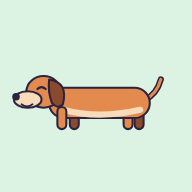
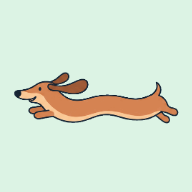
Salchi: el perro es el de Pipí Cucú, copiado tal cual
Se reemplaza el dibujo propio por las mismas imágenes de Pipí Cucú (GIF
volando y PNG quieto, copias byte por byte). Los trucos mueven la imagen
entera y sus nombres dicen lo que se ve; los ids no cambian. Íconos
regenerados con el mismo perro. La prueba de punta a punta verifica que
los archivos sean idénticos.

Claude-Session: https://claude.ai/code/session_01271iNLfZHfGu6YW1ShnF56

Changed region(s): [[0.0625, 0.375, 0.9375, 0.6875]]

diff --git a/finanzas/src/components/Salchicha.tsx b/finanzas/src/components/Salchicha.tsx
@@ -1,57 +1,41 @@
 import type { TrucoId } from '../lib/huellitas/huellitas';
+import { sinMovimiento } from '../lib/movimiento';
 
 /**
- * El salchicha, dibujado por partes para poder animarlo.
+ * El perro. Es EL MISMO de Pipí Cucú, no uno parecido: los dos archivos de
+ * `public/` son copias byte por byte de los de la app hermana
+ * (`../public/pipi-cucu-dog-*`). La idea es que todas las apps tengan el
+ * mismo perrito, así que no se redibuja, no se recolorea y no se recorta. Si
+ * cambia allá, se vuelve a copiar acá.
  *
- * Es un personaje provisional inspirado en el perro de Pipí Cucú
- * (`public/pipi-cucu-dog-static.png` en la app hermana): naranja, panza
- * crema, orejas marrones, ojos cerrados sonrientes. Se reemplaza cambiando
- * este archivo; nada más en la app sabe cómo está dibujado.
+ * El GIF es el perro volando; el PNG, el mismo cuadro quieto, para quien pidió
+ * menos movimiento. Los trucos mueven la imagen entera (saltar, girar,
+ * inclinarse) sin tocar el dibujo.
  *
  * Nunca tiene hambre, ni se enferma, ni se pone triste: no hay un estado que
  * dependa de si la persona entró o no.
  */
+export const PERRO_VOLANDO = '/pipi-cucu-dog-flying.gif';
+export const PERRO_QUIETO = '/pipi-cucu-dog-static.png';
+const ANCHO = 483;
+const ALTO = 177;
+
 export function Salchicha({ truco, tam = 200, etiqueta = 'Salchi, el perro salchicha' }: { truco?: TrucoId | null; tam?: number; etiqueta?: string }) {
+  const quieto = sinMovimiento();
   return (
-    <svg
-      className="salchicha"
-      data-truco={truco ?? undefined}
-      width={tam}
-      height={tam / 2}
-      viewBox="0 0 240 120"
-      role="img"
-      aria-label={etiqueta}
-    >
-      <g className="perro">
-        <g className="cola">
-          <path d="M196 56 Q214 48 220 26" fill="none" stroke="var(--perro-trazo)" strokeWidth="9" strokeLinecap="round" />
-          <path d="M196 56 Q214 48 220 26" fill="none" stroke="var(--perro-cuerpo)" strokeWidth="4.5" strokeLinecap="round" />
-        </g>
-        <g className="patas-tras">
-          <rect x="166" y="66" width="13" height="32" rx="6.5" fill="var(--perro-cuerpo)" stroke="var(--perro-trazo)" strokeWidth="3" />
-          <rect x="182" y="66" width="13" height="32" rx="6.5" fill="var(--perro-oreja)" stroke="var(--perro-trazo)" strokeWidth="3" />
-        </g>
-        <g className="pata-del-2">
-          <rect x="88" y="66" width="13" height="32" rx="6.5" fill="var(--perro-oreja)" stroke="var(--perro-trazo)" strokeWidth="3" />
-        </g>
-        <rect x="58" y="38" width="146" height="44" rx="22" fill="var(--perro-cuerpo)" stroke="var(--perro-trazo)" strokeWidth="3" />
-        <path d="M78 70 Q130 84 190 70" fill="none" stroke="var(--perro-panza)" strokeWidth="9" strokeLinecap="round" />
-        <g className="pata-del-1">
-          <rect x="70" y="66" width="13" height="32" rx="6.5" fill="var(--perro-cuerpo)" stroke="var(--perro-trazo)" strokeWidth="3" />
-        </g>
-        <g className="cabeza">
-          <ellipse cx="50" cy="44" rx="25" ry="23" fill="var(--perro-cuerpo)" stroke="var(--perro-trazo)" strokeWidth="3" />
-          <ellipse cx="27" cy="55" rx="20" ry="12" fill="var(--perro-panza)" stroke="var(--perro-trazo)" strokeWidth="3" />
-          <circle cx="10" cy="51" r="5.5" fill="var(--perro-trazo)" />
-          <path d="M41 40 Q47 34 53 40" fill="none" stroke="var(--perro-trazo)" strokeWidth="3" strokeLinecap="round" />
-          <path d="M18 62 Q26 68 34 62" fill="none" stroke="var(--perro-trazo)" strokeWidth="2.5" strokeLinecap="round" />
-          <g className="oreja">
-            <path d="M58 26 Q86 30 78 62 Q70 70 62 60 Q56 44 58 26 Z" fill="var(--perro-oreja)" stroke="var(--perro-trazo)" strokeWidth="3" strokeLinejoin="round" />
-          </g>
-        </g>
-      </g>
-      <circle className="pelota" cx="232" cy="92" r="8" fill="var(--pelota)" stroke="var(--perro-trazo)" strokeWidth="2.5" />
-    </svg>
+    <span className="salchicha" data-truco={truco ?? undefined} style={{ width: tam }}>
+      <img
+        className="perro"
+        src={quieto ? PERRO_QUIETO : PERRO_VOLANDO}
+        width={tam}
+        height={Math.round((tam * ALTO) / ANCHO)}
+        alt={etiqueta}
+        {...(etiqueta === '' ? { 'aria-hidden': true } : {})}
+        decoding="async"
+        draggable={false}
+      />
+      {truco === 'pelota' && <span className="pelota" aria-hidden="true" />}
+    </span>
   );
 }
 

diff --git a/finanzas/src/styles.css b/finanzas/src/styles.css
@@ -28,11 +28,8 @@
   --foco: #1f6fd1;
   --sombra: 0 1px 2px rgb(29 42 38 / 6%), 0 4px 14px rgb(29 42 38 / 6%);
 
-  --perro-cuerpo: #e38a4f;
-  --perro-panza: #f8dcba;
-  --perro-oreja: #8b4a2b;
-  --perro-trazo: #2b2340;
   --pelota: #f2c14e;
+  --pelota-borde: #2b2340;
   --hormiga: #5b3a29;
   --almohadilla: #e8e1d7;
   --almohadilla-llena: #c46a2e;
@@ -67,10 +64,6 @@
   --foco: #8ab8f5;
   --sombra: 0 1px 2px rgb(0 0 0 / 30%);
 
-  --perro-cuerpo: #e38a4f;
-  --perro-panza: #f8dcba;
-  --perro-oreja: #8b4a2b;
-  --perro-trazo: #120e1f;
   --hormiga: #d9b39a;
   --almohadilla: #33443e;
   --almohadilla-llena: #f0a066;
@@ -1165,6 +1158,199 @@ input[type='file'] {
   list-style: none;
   padding: 0;
   margin: 0 0 8px;
+}
+
+.lista-trucos li {
+  padding: 4px 0;
+}
+
+.celebracion {
+  position: fixed;
+  left: 0;
+  right: 0;
+  /* Por encima de la barra de deshacer, que aparece a la vez. */
+  bottom: calc(var(--nav-alto) + 150px + env(safe-area-inset-bottom));
+  display: flex;
+  flex-direction: column;
+  align-items: center;
+  /* No recibe toques: no puede tapar un botón ni robar el foco. */
+  pointer-events: none;
+  z-index: 30;
+}
+
+.escena {
+  display: flex;
+  align-items: flex-end;
+  gap: 0;
+  animation: escena-entra 0.6s ease-out both;
+}
+
+.celebracion-texto {
+  background: var(--tinta);
+  color: var(--fondo);
+  border-radius: 999px;
+  padding: 8px 16px;
+  margin: 4px 16px 0;
+  font-weight: 700;
+  text-align: center;
+  box-shadow: 0 4px 14px rgb(0 0 0 / 20%);
+}
+
+.huellita-completa {
+  animation: huella-llena 0.5s 0.6s ease-out both;
+}
+
+@keyframes escena-entra {
+  from {
+    transform: translateX(60vw);
+  }
+  to {
+    transform: translateX(0);
+  }
+}
+
+@keyframes huella-llena {
+  50% {
+    transform: scale(1.25);
+  }
+}
+
+/*
+ * El perro es la imagen de Pipí Cucú, entera: los trucos la mueven completa
+ * (saltar, girar, inclinarse), sin tocar el dibujo. Duran menos de 2,5 s.
+ * Mira a la izquierda, así que "adelante" es hacia la izquierda.
+ */
+.salchicha {
+  position: relative;
+  display: inline-block;
+  line-height: 0;
+}
+
+.salchicha .perro {
+  display: block;
+  max-width: 100%;
+  height: auto;
+  user-select: none;
+}
+
+.salchicha .pelota {
+  position: absolute;
+  left: -6%;
+  bottom: 8%;
+  width: 11%;
+  aspect-ratio: 1;
+  border-radius: 50%;
+  background: var(--pelota);
+  border: 2px solid var(--pelota-borde);
+  animation: pelota 1.4s 0.5s ease-out both;
+}
+
+.salchicha[data-truco='patita'] .perro {
+  transform-origin: 50% 100%;
+  animation: aterrizar 0.6s 0.6s ease-out both, giro 0.8s 1.3s ease-in-out both;
+}
+
+@keyframes aterrizar {
+  40% {
+    transform: translateY(8%) scaleY(0.94);
+  }
+}
+
+@keyframes giro {
+  0% {
+    transform: scaleX(1);
+  }
+  25% {
+    transform: scaleX(0);
+  }
+  50% {
+    transform: scaleX(-1);
+  }
+  75% {
+    transform: scaleX(0);
+  }
+  100% {
+    transform: scaleX(1);
+  }
+}
+
+.salchicha[data-truco='giro'] .perro {
+  animation: giro 0.9s 0.6s ease-in-out 2 both;
+}
+
+.salchicha[data-truco='saltito'] .perro {
+  animation: saltito 0.6s 0.6s ease-out 3 both;
+}
+
+@keyframes saltito {
+  40% {
+    transform: translateY(-16%);
+  }
+}
+
+.salchicha[data-truco='reverencia'] .perro {
+  transform-origin: 85% 100%;
+  animation: reverencia 1.6s 0.6s ease-in-out both;
+}
+
+@keyframes reverencia {
+  30%,
+  70% {
+    transform: rotate(-12deg);
+  }
+}
+
+.salchicha[data-truco='panza'] .perro {
+  animation: panza 1.8s 0.6s ease-in-out both;
+}
+
+@keyframes panza {
+  30%,
+  70% {
+    transform: scaleY(-1);
+  }
+}
+
+.salchicha[data-truco='pelota'] .perro {
+  animation: saltito 0.5s 1.6s ease-out 2 both;
+}
+
+@keyframes pelota {
+  0% {
+    transform: translateX(-160%);
+  }
+  70% {
+    transform: translateX(10%);
+  }
+  100% {
+    transform: translateX(0);
+  }
+}
+
+.salchicha[data-truco='estirarse'] .perro {
+  transform-origin: 90% 80%;
+  animation: estirarse 1.8s 0.6s ease-in-out both;
+}
+
+@keyframes estirarse {
+  35%,
+  65% {
+    transform: scaleX(1.12);
+  }
+}
+
+.salchicha[data-truco='orejas'] .perro {
+  transform-origin: 50% 60%;
+  animation: sacudirse 0.3s 0.6s ease-in-out 5 both;
+}
+
+@keyframes sacudirse {
+  25% {
+    transform: rotate(-4deg);
+  }
+  75% {
+    transform: rotate(4deg);
+  }
 }
 
 .lista-trucos li {

diff --git a/finanzas/src/lib/huellitas/huellitas.ts b/finanzas/src/lib/huellitas/huellitas.ts
@@ -19,16 +19,21 @@ import type { AccionHuellita, DateISO, Huellitas, Instante } from '../../types';
 export const ALMOHADILLAS = 5;
 export const COMPLETAS_POR_DIA = 2;
 
-/** Los trucos, en el orden en que se aprenden. El primero es la celebración inicial. */
+/**
+ * Los trucos, en el orden en que se aprenden. El primero es la celebración
+ * inicial. Los ids no cambian nunca: están guardados en los datos de cada
+ * persona. Los nombres dicen lo que se ve, porque el perro es una imagen
+ * entera (el de Pipí Cucú) y no se le puede levantar una pata sola.
+ */
 export const TRUCOS = [
-  { id: 'patita', nombre: 'Dar la patita y girar' },
-  { id: 'saltito', nombre: 'Saltito y mover la cola' },
+  { id: 'patita', nombre: 'Llegar volando y dar una vuelta' },
+  { id: 'saltito', nombre: 'Saltitos de alegría' },
   { id: 'reverencia', nombre: 'Hacer una reverencia' },
   { id: 'giro', nombre: 'Girar sobre sí mismo' },
   { id: 'panza', nombre: 'Rodar panza arriba' },
-  { id: 'pelota', nombre: 'Traer la pelota' },
+  { id: 'pelota', nombre: 'Ir a buscar la pelota' },
   { id: 'estirarse', nombre: 'Estirarse bien largo' },
-  { id: 'orejas', nombre: 'Sacudir las orejas' },
+  { id: 'orejas', nombre: 'Sacudirse' },
 ] as const;
 
 export type TrucoId = (typeof TRUCOS)[number]['id'];

diff --git a/finanzas/vite.config.ts b/finanzas/vite.config.ts
@@ -92,7 +92,7 @@ export default defineConfig({
         ],
       },
       workbox: {
-        globPatterns: ['**/*.{js,css,html,woff2,woff,png,svg}'],
+        globPatterns: ['**/*.{js,css,html,woff2,woff,png,svg,gif}'],
         // El lector de texto pesa unos 6 MB y no todo el mundo lo va a usar:
         // no se baja de entrada. Se guarda la primera vez que se lee un
         // comprobante y desde ahí funciona sin conexión.

diff --git a/finanzas/CLAUDE.md b/finanzas/CLAUDE.md
@@ -16,10 +16,16 @@ node e2e/etapa1.mjs          # punta a punta, con fecha fija y OCR real
 node e2e/etapa2.mjs          # préstamos, importar, capturas, resumen, atajos
 node e2e/etapa3.mjs          # plan, inversión, compartir (levanta sus servidores)
 node scripts/contraste.mjs   # si tocás un color
-node scripts/iconos.mjs      # si cambia el dibujo del perro
+node scripts/iconos.mjs      # si cambia el perro de Pipí Cucú
 ```
 
 ## Reglas que no se adivinan leyendo el código
+
+**El perro es el de Pipí Cucú, copiado, no redibujado.** `public/pipi-cucu-dog-flying.gif` y
+`public/pipi-cucu-dog-static.png` son copias byte por byte de `../public/`: todas las apps tienen el
+mismo perrito. No se dibuja uno "parecido", ni se recolorea, ni se recorta. Si cambia allá, se
+copia de nuevo (`cp ../public/pipi-cucu-dog-* public/`) y se regeneran los íconos. Los trucos
+mueven la imagen entera; `e2e/etapa1.mjs` verifica que los archivos sean idénticos.
 
 **La plata es un entero de centavos**, siempre. `parseMoney`/`formatMoney` son la única frontera
 con el texto. **Las fechas locales son `YYYY-MM-DD`**; nunca `new Date('2026-03-10')`.

diff --git a/docs/prompt-app-finanzas-tdah.md b/docs/prompt-app-finanzas-tdah.md
@@ -266,11 +266,9 @@ Distinciones que las reglas tienen que respetar (cada una con prueba):
 
 ## 8. El salchicha
 
-- Referencia visual: el perro de Pipí Cucú (`public/pipi-cucu-dog-flying.gif`,
-  `pipi-cucu-dog-static.png`): salchicha naranja con panza crema, orejas marrones, trazo oscuro,
-  ojos cerrados sonrientes. Para animarlo hace falta dibujarlo en **SVG por partes** (cuerpo,
-  cabeza, orejas, patas, cola) inspirado en ese, como personaje provisional y reemplazable. Si
-  hay un diseño original más completo, se usa ese.
+- **Es el perro de Pipí Cucú, copiado tal cual**: `public/pipi-cucu-dog-flying.gif` (volando) y
+  `public/pipi-cucu-dog-static.png` (quieto, para movimiento reducido). Todas las apps tienen el
+  mismo perrito: no se dibuja uno nuevo ni uno "inspirado en". Los trucos mueven la imagen entera.
 - Tres modos: **visible**, **de vez en cuando**, **sin personaje**. Apagarlo no quita nada.
 - **Nunca** tiene hambre, se enferma, se pone triste, se aburre ni pierde cosas porque la persona
   no entró. No es una mascota a cuidar.
